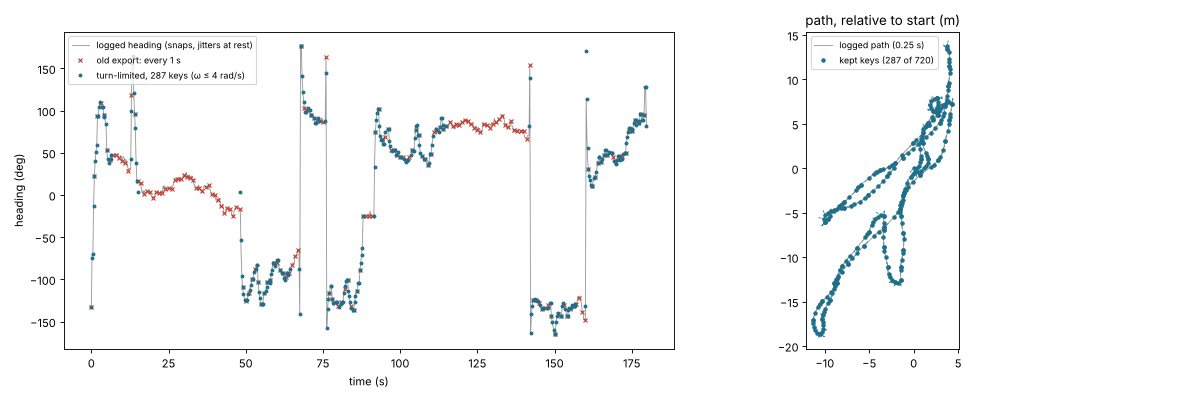
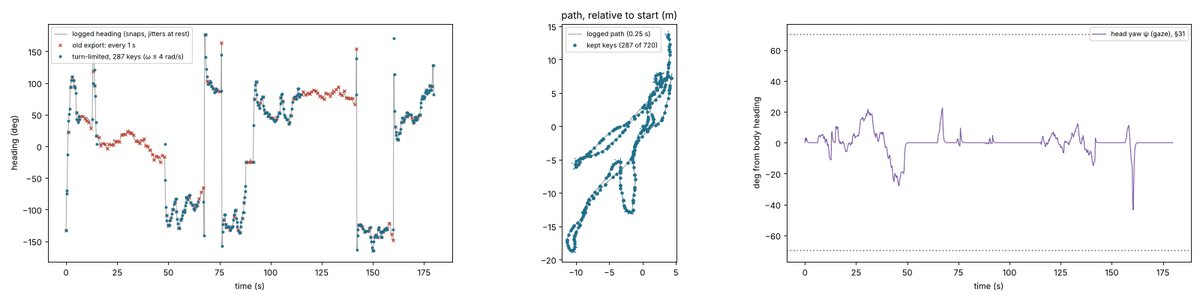
Gaze: head yaw from the heading the body no longer follows
TECHNIQUES §31.

§30 holds the body still while the simulation's heading looks around;
that looking now turns the head:
    ψ_i = ψ_{i−1} + (1 − e^{−Δt/τ}) (clip(wrap(h_i − ĥ_i), ±70°) − ψ_{i−1}),
    τ = 0.3 s
At rest the head scans. In motion it leads into turns, because the
turn-limited body lags.

The neck rotation is q = yaw(ψ) · pitch(−θ) (Hamilton product, new qmul),
so a grazing deer can still look sideways. Keys come from the union of
the log and pitch keys, reduced by two-channel RDP (2° each).

Viewer check: 55 nodes, 23 moving, no errors. motion.jpg adds a gaze
panel. Tests pass.

Claude-Session: https://claude.ai/code/session_01W8T2zvuXVw2eBrrYHA5yqx

diff --git a/plandscape/fauna/motion.py b/plandscape/fauna/motion.py
@@ -52,7 +52,8 @@ def simplify(times, P, H, eps_p=0.02, eps_h=np.radians(2.0)):
             continue
         s = (t[a + 1:b] - t[a]) / max(t[b] - t[a], 1e-9)
         ep = np.linalg.norm(P[a + 1:b] - (P[a] + s[:, None] * (P[b] - P[a])), axis=1)
-        eh = np.abs(H[a + 1:b] - (H[a] + s * (H[b] - H[a])))
+        Hs = H.reshape(len(H), -1)  # one or several angle channels
+        eh = np.abs(Hs[a + 1:b] - (Hs[a] + s[:, None] * (Hs[b] - Hs[a]))).max(1)
         err = np.maximum(ep / eps_p, eh / eps_h)
         k = int(np.argmax(err))
         if err[k] > 1.0:
@@ -85,11 +86,34 @@ def body_heading_target(times, xy, headings, v_min=0.05, long_stop=3.0):
     return out
 
 
-def export_track(log, species):
-    """(times, positions (K,3), headings (K,)) for the GLB, from an agent log of (t, x, y, z, heading, state)."""
+GAZE_MAX = np.radians(70)  # how far the head turns from the body
+GAZE_TAU = 0.3  # s, low-pass on the gaze
+
+
+def body_headings(log, species):
+    """Full-rate (times, positions, displayed body heading) from an agent log."""
     t = np.array([l[0] for l in log], float)
     P = np.array([(l[1], l[2], l[3]) for l in log], float)
     target = body_heading_target(t, P[:, :2], [l[4] for l in log])
-    H = turn_limited(t, np.unwrap(target), OMEGA_MAX.get(species, 3.0))
+    return t, P, turn_limited(t, np.unwrap(target), OMEGA_MAX.get(species, 3.0))
+
+
+def gaze(log, body):
+    """Head yaw relative to the body: what the logged heading points at that the body does not,
+        ψ = lowpass(clip(wrap(h − ĥ), ±70°)),  first-order, τ = 0.3 s.
+    At rest that is the simulation's "look around"; in motion the head leads into turns."""
+    t = np.array([l[0] for l in log], float)
+    raw = np.clip(wrap(np.array([l[4] for l in log], float) - body), -GAZE_MAX, GAZE_MAX)
+    out = np.empty_like(raw)
+    out[0] = raw[0]
+    for i in range(1, len(raw)):
+        a = 1 - np.exp(-max(t[i] - t[i - 1], 0.0) / GAZE_TAU)
+        out[i] = out[i - 1] + a * (raw[i] - out[i - 1])
+    return out
+
+
+def export_track(log, species):
+    """(times, positions (K,3), headings (K,)) for the GLB, from an agent log of (t, x, y, z, heading, state)."""
+    t, P, H = body_headings(log, species)
     k = simplify(t, P, H)
     return t[k], P[k], H[k]

diff --git a/plandscape/scene/compose.py b/plandscape/scene/compose.py
@@ -18,7 +18,7 @@ from scipy import ndimage
 
 from .. import textures
 from ..assets.store import GENERATOR_VERSIONS, AssetStore, mesh_codec, store_behavior, terrain_codec, tree_codec
-from ..export.gltf import GLB, _to_gltf, pitch_quat
+from ..export.gltf import GLB, _to_gltf, pitch_quat, qmul, yaw_quat
 from ..fauna.agents import FAUNA, World, run, spawn
 from ..fauna import gait, motion
 from ..fauna.bodies import rig
@@ -448,9 +448,15 @@ def compose(plan: ScenePlan, out_dir: str, sim_seconds=180.0, log=print, store: 
                     extra.append((sn, "rotation", tk, pitch_quat(ang[:, i, 1])))
                 bz = np.asarray(bob)
                 extra.append((trunk, "translation", tk, _to_gltf(np.c_[0 * bz, 0 * bz, bz])))
-            if neck is not None:  # head down to graze, up when alert (§28)
+            if neck is not None:  # head pitch by state (§28) and yaw by gaze (§31): q = yaw(ψ) · pitch(−θ)
                 hk, hv = gait.head_track(t_, [l[5] for l in a.log], rg["neck"]["graze"])
-                extra.append((neck, "rotation", hk, pitch_quat(-hv)))
+                _, _, body_h = motion.body_headings(a.log, a.spec.key)
+                psi = motion.gaze(a.log, body_h)
+                tt = np.unique(np.r_[t_, hk[hk <= t_[-1]]])
+                th = np.interp(tt, hk, hv)
+                ps = np.interp(tt, t_, psi)
+                keep = motion.simplify(tt, np.zeros((len(tt), 3)), np.c_[th, ps])
+                extra.append((neck, "rotation", tt[keep], qmul(yaw_quat(ps[keep]), pitch_quat(-th[keep]))))
             if tail is not None:  # the white flag goes up when a deer flees (§29)
                 fk, fv = gait.pose_track(t_, [l[5] for l in a.log], rg["tail"]["flag"], gait.TAIL, gait.TAIL_EASE)
                 extra.append((tail, "rotation", fk, pitch_quat(-fv)))

diff --git a/scripts/gallery.py b/scripts/gallery.py
@@ -212,7 +212,7 @@ def motion_sheet(path):
     t = L[:, 0]
     raw = L[:, 4]
     tk, Pk, Hk = motion.export_track(log, "white_tailed_deer")
-    fig, ax = plt.subplots(1, 2, figsize=(15, 5))
+    fig, ax = plt.subplots(1, 3, figsize=(20, 5))
     deg = lambda a: np.degrees(motion.wrap(a))  # noqa: E731
     ax[0].plot(t, deg(raw), lw=0.8, color="0.6", label="logged heading (snaps, jitters at rest)")
     ax[0].plot(t[::4], deg(raw[::4]), "x", ms=4, color="#c0392b", label="old export: every 1 s")
@@ -227,6 +227,14 @@ def motion_sheet(path):
     ax[1].set_aspect("equal")
     ax[1].legend(fontsize=8)
     ax[1].set_title("path, relative to start (m)")
+    _, _, body = motion.body_headings(log, "white_tailed_deer")
+    psi = motion.gaze(log, body)
+    ax[2].plot(t, np.degrees(psi), lw=1.0, color="#7d5ba6", label="head yaw ψ (gaze), §31")
+    ax[2].axhline(np.degrees(motion.GAZE_MAX), ls=":", color="0.5")
+    ax[2].axhline(-np.degrees(motion.GAZE_MAX), ls=":", color="0.5")
+    ax[2].set_xlabel("time (s)")
+    ax[2].set_ylabel("deg from body heading")
+    ax[2].legend(fontsize=8)
     fig.tight_layout()
     fig.savefig(path, dpi=80)
     plt.close(fig)

diff --git a/tests/test_core.py b/tests/test_core.py
@@ -159,6 +159,21 @@ class Motion(unittest.TestCase):
         self.assertLess(np.abs(Pi[:, 0] - x).max(), 0.02 + 1e-6)
 
 
+class Gaze(unittest.TestCase):
+    def test_head_looks_around_while_body_holds(self):
+        from plandscape.fauna import motion
+        t = np.arange(0, 12, 0.25)
+        h = np.where((t > 4) & (t < 8), 0.9, 0.0)  # standing; the logged heading looks left for 4 s
+        log = [(ti, 0.0, 0.0, 0.0, hi, "idle") for ti, hi in zip(t, h)]
+        _, _, body = motion.body_headings(log, "white_tailed_deer")
+        self.assertLess(np.ptp(body), 1e-9)  # one long stop: the body faces the stop's mean heading and holds
+        psi = motion.gaze(log, body)
+        look = (t > 5) & (t < 8)
+        np.testing.assert_allclose(psi[look] + body[look], 0.9, atol=0.1)  # the head turned to where it looked
+        self.assertLess(abs(psi[-1] + body[-1]), 0.1)  # and came back
+        self.assertLessEqual(np.abs(psi).max(), motion.GAZE_MAX + 1e-9)
+
+
 class Refine(unittest.TestCase):
     def test_validate_keeps_only_what_generators_honour(self):
         from plandscape.scene.planner import refine

diff --git a/plandscape/export/gltf.py b/plandscape/export/gltf.py
@@ -35,6 +35,17 @@ def pitch_quat(theta):
     return np.stack([z, z, np.sin(theta / 2), np.cos(theta / 2)], -1)
 
 
+def qmul(a, b):
+    """Hamilton product of quaternions (x, y, z, w), batched: the rotation b, then a."""
+    a, b = np.asarray(a, np.float64), np.asarray(b, np.float64)
+    ax, ay, az, aw = np.moveaxis(a, -1, 0)
+    bx, by, bz, bw = np.moveaxis(b, -1, 0)
+    return np.stack([aw * bx + ax * bw + ay * bz - az * by,
+                     aw * by - ax * bz + ay * bw + az * bx,
+                     aw * bz + ax * by - ay * bx + az * bw,
+                     aw * bw - ax * bx - ay * by - az * bz], -1)
+
+
 def yaw_quat(theta):
     """Quaternion (x,y,z,w) for a world-z heading θ, expressed in glTF space."""
     theta = np.asarray(theta, np.float64)

diff --git a/docs/TECHNIQUES.md b/docs/TECHNIQUES.md
@@ -641,3 +641,18 @@ pivoted through half a turn between keys or spun in place while grazing. Export 
    kept neighbours reproduces its position within 2 cm and its heading within 2°.
 
 The example clip in the gallery keeps 287 of its 720 samples: turns stay curves, and stops cost two keys.
+
+## 31. Gaze: head yaw from what the body ignores
+`plandscape/fauna/motion.py: body_headings, gaze`; `export/gltf.py: qmul`; `scene/compose.py`
+
+§30 holds the body still while the simulation's heading looks around. That looking now goes to the head. The gaze is the
+part of the logged heading $h$ the displayed body heading $\hat h$ does not follow, clipped to the neck's reach and
+low-passed:
+
+$$\psi_i = \psi_{i-1} + \big(1 - e^{-\Delta t/\tau}\big)\Big(\operatorname{clip}\big(\operatorname{wrap}(h_i - \hat h_i),\ \pm 70°\big) - \psi_{i-1}\Big), \qquad \tau = 0.3\ \text{s}.$$
+
+At rest the head scans; in motion it leads into turns, because the turn-limited body lags.
+
+The neck node's rotation composes yaw after the state pitch (§28): $q = q_\text{yaw}(\psi)\,q_\text{pitch}(-\theta)$, a Hamilton product, so a
+grazing deer can still look sideways. Keys come from the union of the log and the pitch keys, reduced by the two-channel
+Ramer–Douglas–Peucker of §30 (2° on both angles).

diff --git a/HANDOFF.md b/HANDOFF.md
@@ -55,7 +55,7 @@ You are continuing **stick-town**, a Python package (`plandscape`) that turns a 
 3. **Grow the asset library.** All species × 4 seasons × ≥4 variants at `low` and `med`; all building kinds × 4; behaviour clips from ≥20 scenes. Ask the owner where large binaries should live before going past ~100 MB.
 4. **Animals.** Gaits by speed are done (§25). Next:
    - knees and planted feet are done (§26); feet still slide where the stance is out of reach (gallop);
-   - torso bob, head pose (§28), lying down and the deer's flag (§29) are done; smooth turning (§30) is done; next: head yaw for the "look around" gaze, ear flicks;
+   - torso bob, head pose (§28), lying down and the deer's flag (§29) are done; smooth turning (§30) and gaze (§31) are done; next: ear flicks, the viewer following a chosen animal's gaze;
    - multi-hour runs;
    - more species: heron, cardinal, box turtle, raccoon, red-tailed hawk, fire-ant mounds.
 5. **Species data is verified** (§24, `catalog/species_sources.json`). New species need the same: URL plus quote for height, d.b.h., leaf length and habit before `verified=True`. Silvics PDFs: research.fs.usda.gov/download/treesearch/1547.pdf (conifers) and 1548.pdf (hardwoods); the old srs.fs.usda.gov host fails TLS.

diff --git a/CHANGELOG.md b/CHANGELOG.md
@@ -3,6 +3,7 @@
 ## Unreleased
 
 **Added**
+- Gaze (TECHNIQUES §31). The heading the body no longer follows at rest becomes head yaw ψ (±70°, low-passed with τ 0.3 s), composed with the state pitch as q = yaw · pitch. Heads scan while bodies stand and lead into turns.
 - Smooth turning (TECHNIQUES §30). Exported headings are turn-rate limited per species, and standing animals hold their body heading instead of spinning in place. Paths are exported from the full 0.25 s log, keyframes reduced by Ramer–Douglas–Peucker (2 cm, 2°). Gallery adds `motion.jpg`.
 - Lying down and the deer's flag (TECHNIQUES §29). Resting animals lower the trunk (0.62 h for quadrupeds, 0.4 h for turkeys) and fold their legs by IK with the feet kept on the ground. Deer raise the white tail when they flee and half-raise it when alert. Gallery `poses.jpg` adds rest and flee.
 - Trunk bob and head pose by behaviour (TECHNIQUES §28). The trunk rises and falls b = A h cos 2φ, and the IK keeps the feet planted. Deer, coyotes and turkeys lower their heads to eat or drink and raise them when alert, easing over 0.4 s at each state change. Gallery adds `poses.jpg`.

diff --git a/docs/gallery/README.md b/docs/gallery/README.md
@@ -42,7 +42,8 @@ with legs folded by the same IK, and a fleeing deer raises its white flag. The s
 
 A stored deer clip: the logged heading (grey) snaps and jitters while the deer stands; the old export (red) sampled it
 once a second. The exported heading (blue) turns at no more than 4 rad/s, holds still at rest, and keeps 287 of 720
-keys (right: the path with its kept keys and headings).
+keys (middle: the path with its kept keys and headings). Right: the head's gaze, the heading the body no longer
+follows, up to ±70° (§31).
 
 ## Terrain: droplet erosion (§14)
 
